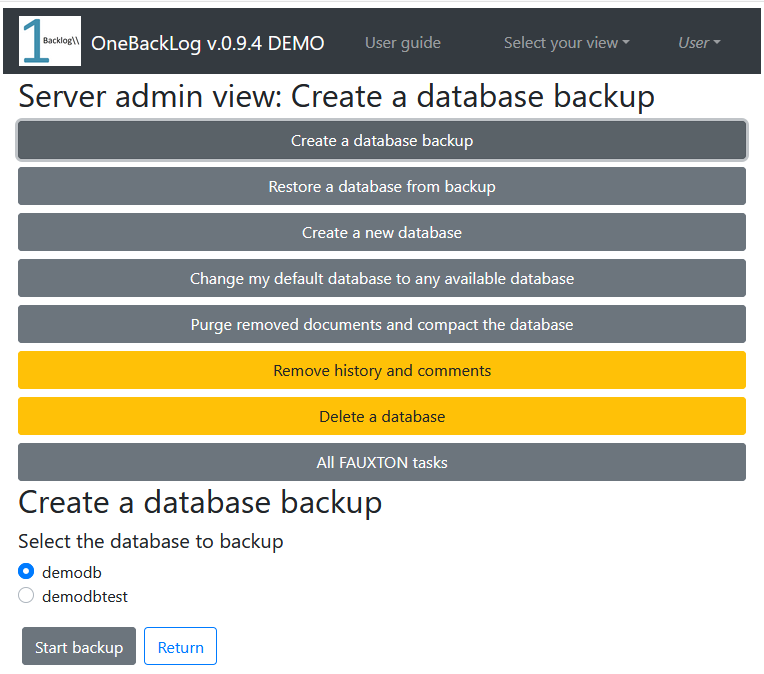
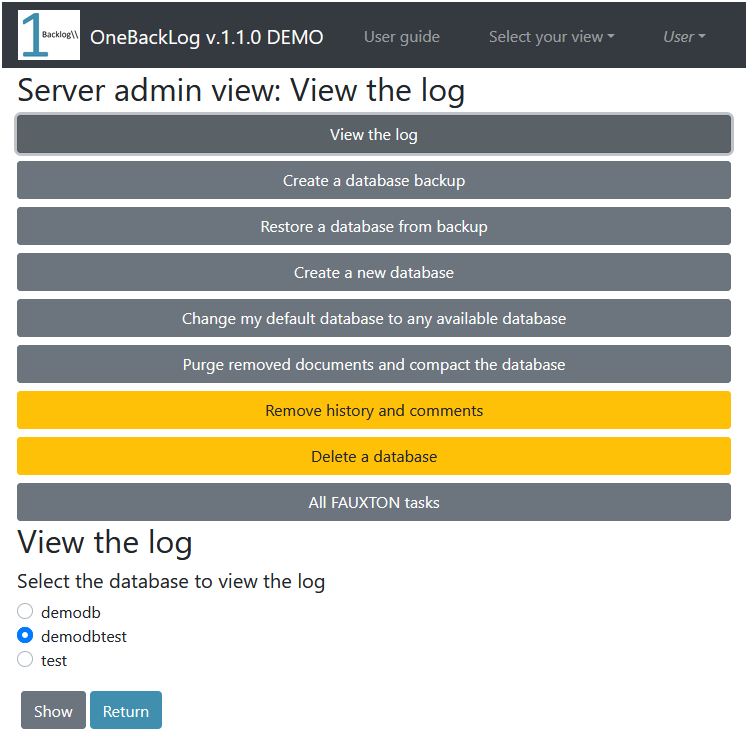
Prepare for release

Changed region(s): [[0.0, 0.0, 1.0, 0.997]]

diff --git a/src/components/rel-notes/rel-notes.vue b/src/components/rel-notes/rel-notes.vue
@@ -6,6 +6,18 @@
         <b-col cols="12" class="left-column">
           <h1>RELEASE NOTES</h1>
           <p v-if="this.$store.state.demo">Note: This is a demo version of the application.</p>
+          <h3>v.1.1.0 - 27 July 2020 Feature update and bug fixes</h3>
+          <p>New features:</p>
+          <ul>
+            <li>Log viewer for the server admin</li>
+            <li>When opening context menu select and load item automatically (no need to select first)</li>
+          </ul>
+          <p>Bug fixes:</p>
+          <ul>
+            <li>Regression: Cannot change team</li>
+            <li>Console log messages showing (switched off now)</li>
+          </ul>
+          <hr />
           <h3>v.1.0.0 - 18 July 2020 Feature complete release</h3>
           <p>New features:</p>
           <ul>

diff --git a/src/components/header/header.js b/src/components/header/header.js
@@ -13,7 +13,7 @@ function created() {
 
 function data() {
     return {
-        appVersion: "OneBackLog v.1.0.0",
+        appVersion: "OneBackLog v.1.1.0",
         changeTeamCalendarModel: false,
         disableOkButton: false,
         oldPassword: "",
